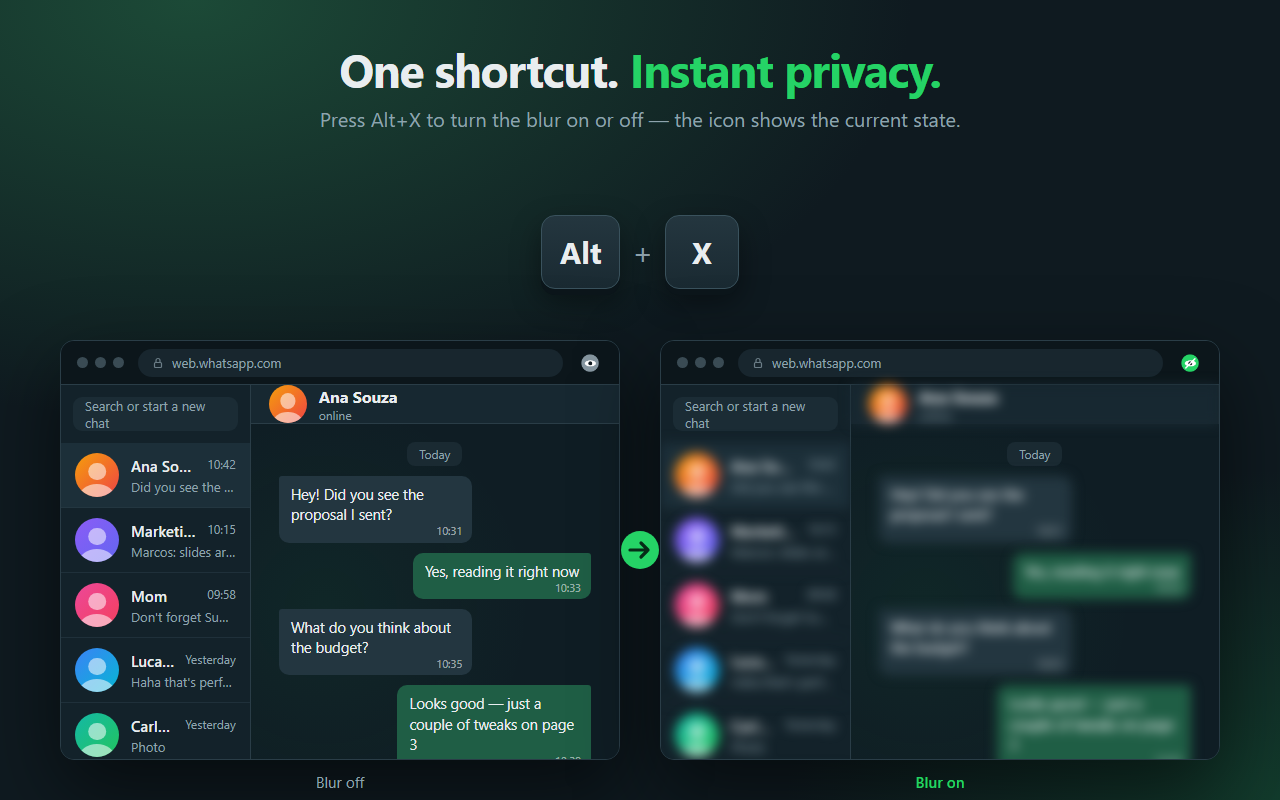
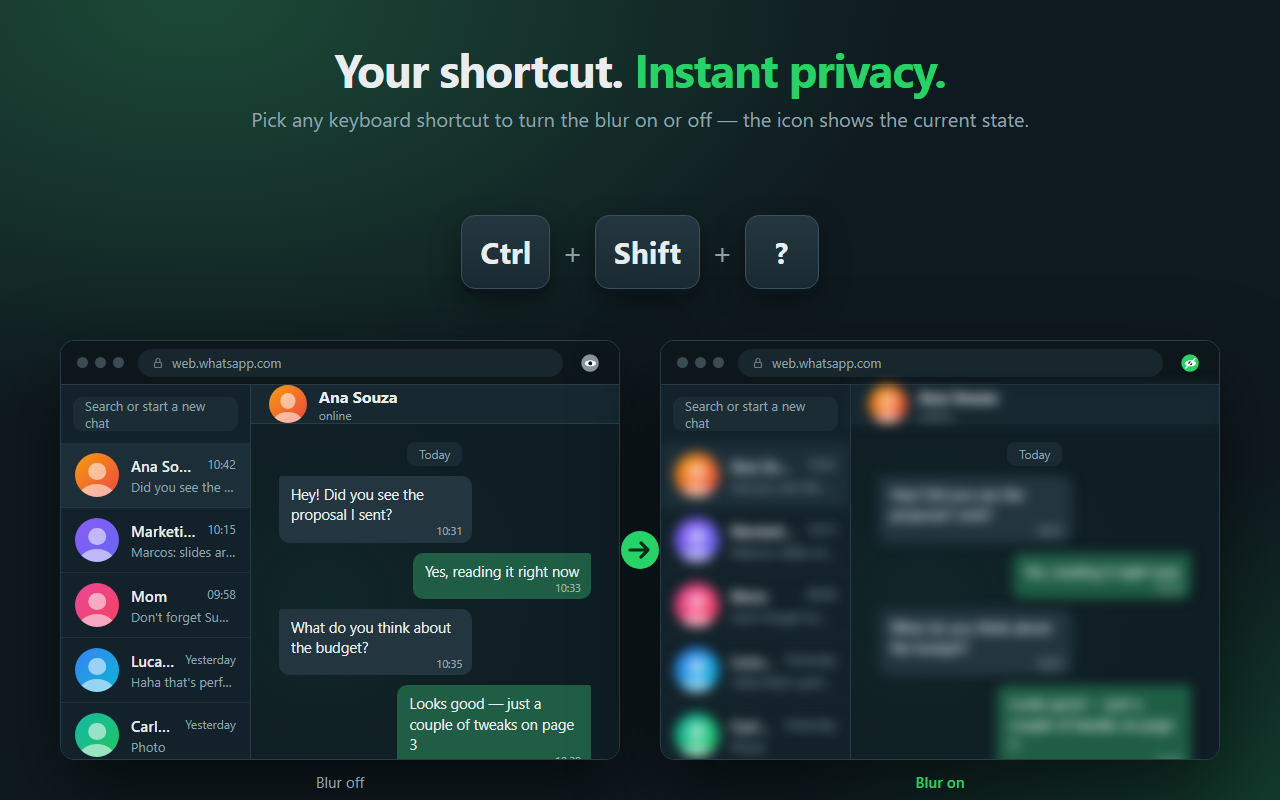
Release v1.0.1: user-defined toggle shortcut
- Remove default Alt+X shortcut (conflicted with Firefox menus and other apps)
- Show the configured shortcut in the popup, with a link to set/change it
- Update README and store screenshots

Changed region(s): [[0.1875, 0.0625, 0.8125, 0.1562], [0.375, 0.25, 0.6562, 0.3438]]

diff --git a/store-assets/src/render.html b/store-assets/src/render.html
@@ -163,15 +163,15 @@ const T = {
     s1p: "BlurMyZap blurs WhatsApp Web — just hover over a message to read it.",
     s2h: ["Choose exactly", "what to blur"],
     s2p: "Chat list, photos, messages, media — toggle each one and set the intensity.",
-    s3h: ["One shortcut.", "Instant privacy."],
-    s3p: "Press Alt+X to turn the blur on or off — the icon shows the current state.",
+    s3h: ["Your shortcut.", "Instant privacy."],
+    s3p: "Pick any keyboard shortcut to turn the blur on or off — the icon shows the current state.",
     off: "Blur off", on: "Blur on",
     largeH: ["Nobody reads", "over your shoulder."],
     largeP: "Blurs WhatsApp Web chats, photos and messages.\nHover to reveal. Free and open source.",
     popup: {
       enabled: "Blur enabled", what: "What to blur",
       items: ["Chat list", "Profile pictures", "Chat header", "Messages", "Photos and videos", "Entire conversation", "Message input"],
-      hover: "Reveal on hover", intensity: "Intensity", shortcut: "Shortcut"
+      hover: "Reveal on hover", intensity: "Intensity", shortcut: "Shortcut", change: "change"
     },
     chats: [
       ["Ana Souza", "Did you see the proposal?", "10:42", 2],
@@ -202,15 +202,15 @@ const T = {
     s1p: "O BlurMyZap borra o WhatsApp Web — passe o mouse sobre a mensagem para ler.",
     s2h: ["Escolha exatamente", "o que borrar"],
     s2p: "Lista de conversas, fotos, mensagens, mídia — ligue cada item e ajuste a intensidade.",
-    s3h: ["Um atalho.", "Privacidade na hora."],
-    s3p: "Aperte Alt+X para ligar ou desligar o blur — o ícone mostra o estado atual.",
+    s3h: ["Seu atalho.", "Privacidade na hora."],
+    s3p: "Escolha o atalho de teclado que quiser para ligar ou desligar o blur — o ícone mostra o estado atual.",
     off: "Blur desligado", on: "Blur ligado",
     largeH: ["Ninguém espia", "suas conversas."],
     largeP: "Borra conversas, fotos e mensagens do WhatsApp Web.\nPasse o mouse para revelar. Gratuito e de código aberto.",
     popup: {
       enabled: "Blur ativado", what: "O que borrar",
       items: ["Lista de conversas", "Fotos de perfil", "Cabeçalho da conversa", "Mensagens", "Imagens e vídeos", "Conversa inteira", "Campo de digitação"],
-      hover: "Revelar ao passar o mouse", intensity: "Intensidade", shortcut: "Atalho"
+      hover: "Revelar ao passar o mouse", intensity: "Intensidade", shortcut: "Atalho", change: "alterar"
     },
     chats: [
       ["Ana Souza", "Viu a proposta?", "10:42", 2],
@@ -286,7 +286,7 @@ function popupHtml(x, y) {
     ${P.items.map((it, i) => `<div class="r"><span>${it}</span>${cb(on[i])}</div>`).join("")}
     <div class="r"><span>${P.hover}</span>${cb(true)}</div>
     <div class="slider">${P.intensity}: 6px<div class="track"></div></div>
-    <footer>${P.shortcut}: <kbd>Alt</kbd>+<kbd>X</kbd></footer>
+    <footer>${P.shortcut}: <kbd>Ctrl</kbd>+<kbd>Shift</kbd>+<kbd>Z</kbd> · <span style="color:#25d366">${P.change}</span></footer>
   </div>`;
 }
 
@@ -328,7 +328,7 @@ const shots = {
   s3: () => `
     ${caption(T.s3h, T.s3p, 44)}
     <div style="position:absolute;left:0;right:0;top:215px;display:flex;justify-content:center">
-      <div class="keys"><div class="key">Alt</div><span class="plus">+</span><div class="key">X</div></div>
+      <div class="keys"><div class="key">Ctrl</div><span class="plus">+</span><div class="key">Shift</div><span class="plus">+</span><div class="key">?</div></div>
     </div>
     ${windowHtml({ x: 60, y: 340, w: 560, h: 420, blurred: false, chats: 5, extOff: true })}
     ${windowHtml({ x: 660, y: 340, w: 560, h: 420, blurred: true, reveal: -1, chats: 5 })}

diff --git a/popup.js b/popup.js
@@ -6,6 +6,36 @@ for (const el of document.querySelectorAll("[data-i18n]")) {
   el.textContent = chrome.i18n.getMessage(el.dataset.i18n);
 }
 
+// Mostra o atalho realmente configurado (o usuário pode trocar nas configurações do navegador).
+const shortcutKeys = document.getElementById("shortcutKeys");
+chrome.commands.getAll((commands) => {
+  const cmd = commands.find((c) => c.name === "toggle-blur");
+  if (!cmd || !cmd.shortcut) {
+    shortcutKeys.textContent = chrome.i18n.getMessage("shortcutNotSet");
+    document.getElementById("shortcutChange").textContent = chrome.i18n.getMessage("shortcutSet");
+    return;
+  }
+  // Chrome no Windows/Linux devolve "Alt+Shift+Z"; no Mac, símbolos como "⌥⇧Z".
+  const keys = cmd.shortcut.includes("+") ? cmd.shortcut.split("+") : [...cmd.shortcut];
+  keys.forEach((key, i) => {
+    if (i > 0) shortcutKeys.append("+");
+    const kbd = document.createElement("kbd");
+    kbd.textContent = key;
+    shortcutKeys.append(kbd);
+  });
+});
+
+// Abre a tela de atalhos do navegador (Firefox tem API própria; Chrome usa a página interna).
+document.getElementById("shortcutChange").addEventListener("click", (e) => {
+  e.preventDefault();
+  if (chrome.commands.openShortcutSettings) {
+    chrome.commands.openShortcutSettings();
+  } else {
+    chrome.tabs.create({ url: "chrome://extensions/shortcuts" });
+  }
+  window.close();
+});
+
 const checkboxKeys = ["enabled", "revealOnHover", ...BMZ_SECTIONS];
 const options = document.getElementById("options");
 const intensity = document.getElementById("intensity");

diff --git a/background.js b/background.js
@@ -34,7 +34,7 @@ chrome.storage.onChanged.addListener((changes, area) => {
   }
 });
 
-// Atalho Alt+X
+// Atalho de teclado: sem tecla padrão; o usuário define na tela de atalhos do navegador (link no popup).
 chrome.commands.onCommand.addListener(async (command) => {
   if (command !== "toggle-blur") return;
   const { enabled } = await chrome.storage.sync.get({ enabled: BMZ_DEFAULTS.enabled });

diff --git a/popup.html b/popup.html
@@ -34,7 +34,7 @@
     </label>
   </fieldset>
 
-  <footer><span data-i18n="shortcut"></span>: <kbd>Alt</kbd>+<kbd>X</kbd></footer>
+  <footer><span data-i18n="shortcut"></span>: <span id="shortcutKeys"></span> · <a href="#" id="shortcutChange" data-i18n="shortcutChange"></a></footer>
 
   <script src="defaults.js"></script>
   <script src="popup.js"></script>

diff --git a/popup.css b/popup.css
@@ -86,3 +86,6 @@ kbd {
   padding: 0 4px;
   font-size: 10px;
 }
+
+footer a { color: var(--accent); text-decoration: none; }
+footer a:hover { text-decoration: underline; }

diff --git a/README.md b/README.md
@@ -11,7 +11,7 @@ Works on **Google Chrome** (and other Chromium browsers) and **Mozilla Firefox**
 - Blur the chat list, profile pictures, chat header, messages, photos/videos, the entire conversation and/or the message input — each one can be toggled on or off
 - Reveal on hover: see only what you point at
 - Adjustable blur intensity
-- Toggle the blur on/off with <kbd>Alt</kbd>+<kbd>X</kbd> (customizable)
+- Toggle the blur on/off with a keyboard shortcut of your choice (set it from the popup)
 - Toolbar icon shows whether the blur is on or off
 - Available in English and Portuguese (follows the browser language)
 
@@ -68,7 +68,7 @@ Funciona no **Google Chrome** (e outros navegadores Chromium) e no **Mozilla Fir
 - Blur na lista de conversas, fotos de perfil, cabeçalho da conversa, mensagens, imagens/vídeos, conversa inteira e/ou campo de digitação — cada um pode ser ligado ou desligado
 - Revelar ao passar o mouse: veja só o que você apontar
 - Intensidade do blur ajustável
-- Liga/desliga com <kbd>Alt</kbd>+<kbd>X</kbd> (personalizável)
+- Liga/desliga com um atalho de teclado à sua escolha (defina pelo popup)
 - O ícone na barra mostra se o blur está ligado ou desligado
 - Disponível em inglês e português (segue o idioma do navegador)
 
